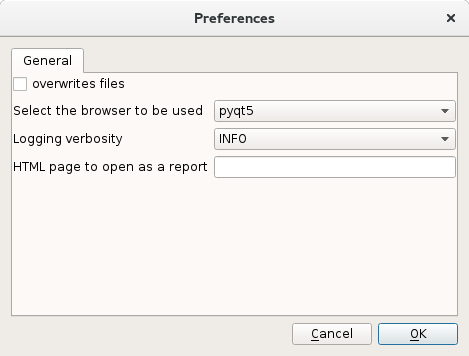
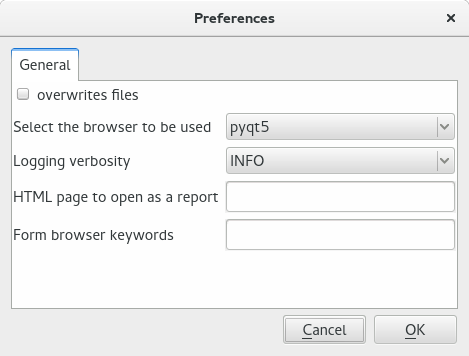
update doc

diff --git a/doc/sequanix.rst b/doc/sequanix.rst
@@ -107,6 +107,12 @@ You can then check the pipeline by clicking the **Show Pipeline** button or use
 complex dynamix pipelines where parts may be switched off, this may be
 convenient.
 
+.. figure:: _static/sequanix/sequanix_dag_qc.png
+    :width: 85%
+
+    A dialog showing the DAG (directed acyclic graph) with dependencies in the
+    analysis pipeline
+
 Finally, once saved, the **Run** button should be clickable. Click on
 it or use **Ctrl+R** shortcut. The output of Snakemake will be shown and
 the progress bar will move showing the stage of the analysis.
@@ -160,6 +166,8 @@ here is the Snakefile.
      will see later on to combine this Snakefile with a configuration file
      where the directory can be set.
 
+.. _minidata:
+
 Prerequisites: get some FastQ files
 ~~~~~~~~~~~~~~~~~~~~~~~~~~~~~~~~~~~~~~~~~~~~~~
 
@@ -179,9 +187,9 @@ You will also need the Snakefile (pipeline) itself:
 
 - :download:`minimalist <minimalist.rules>`
 
-.. warning:: if the data and pipeline are in a different directories, 
+.. warning:: if the data and pipeline are in a different directories,
    you need to change the highlighted line (line 5) to set
-   the **directory** name specifically. 
+   the **directory** name specifically.
 
 Once ready, start **Sequanix** in a shell::
 
@@ -222,30 +230,59 @@ Generic pipeline: a minimalist example with a configuration file
 
 In this section, we use a pipeline that is almost identical to the previous one.
 
-.. literalinclude:: minimalist.rules
+.. literalinclude:: minimalist2.rules
     :language: python
     :linenos:
-    :emphasize-lines: 5
+    :emphasize-lines: 4-5
 
-The only difference is that the **directory** parameter is now inside an
-external configuration file. Here are the links to get the Snakefile and the
-configuration file. 
+The only difference is on line 4 and 5: the previously hard-coded variable **directory**
+is now extracted from an external configuration file called *minimalist.yaml*.
 
+Here are the links to get the Snakefile and the configuration file.
 
 - :download:`minimalist file with configuration <minimalist2.rules>`
 - :download:`configuration <minimalist.yaml>`
 
+Similarly to the previous example you would need some FastQ files
+(see :ref:`minidata`). Once done, start **sequanix**. Here you would
+need to load the pipeline and set the working directory but also to
+load the config file. When you load the config file, you should see
+something equivalent to the following figure: the configuration file is shown
+in the **Config parameters** section:
+
 .. figure:: _static/sequanix/sequanix_minimalist_config.png
+    :width: 80%
 
 You can see here that the configuration file (a single parameter *data_directory*) is interpreted and a widget is available to select the directory where to find the data (for developers, please see :ref:`developers` section).
 
 The rest of the analysis works as above.
 
-Dialogs
-----------
+Dialogs and running local or on a cluster
+-------------------------------------------------
 
-Preference dialog
-~~~~~~~~~~~~~~~~~~~~~
+So far we have used **Sequanix** with the default parameters.
+
+
+
+
+The Sequanix browser and the preferences dialog
+~~~~~~~~~~~~~~~~~~~~~~~~~~~~~~~~~~~~~~~~~~~~~~~~~
+
+Once an analysis is finished, **Sequana** pipeline generally creates an HTML
+report. This is the reason why we added a **Open Report** button in the bottom.
+This opens a file browser where users can select an HTML file. The browser used
+by default is a home-made browser.
+
+The home-made browser is simple but very convenient if you run **Sequanix** on a
+unix system where there is no standard browser installed for you. However, this
+home-made browser is simple. There is a forward/backward capability, support for
+Javascript, ability to change the URL but that is pretty much all. 
+
+
+In order to open the preferences dialog, type **Ctrl+P** or go to
+the *Option* menu at the top and select *Preferences*. The Preferences dialog
+looks like the following figure:
+
 
 .. figure:: _static/sequanix/preferences_dialog.png
    :scale: 80%
@@ -253,12 +290,50 @@ Preference dialog
    Preferences dialog. This dialog is accessible via the menu or the short Ctrl+P.
    It contains general options to tune Sequanix's behaviour
 
+Brief description of the options:
+
+:overwrite files: if checked, when saving a project, the existing configuration
+    and pipelines are overwritten
+:select the browser to be used: By default the home-made browser (pyqt5) is used but one
+    can select firefox, safari, chrome instead. 
+:logging verbosity: there are 5 level of verbosity. By default, we use INFO. It
+    may be useful to set the option to DEBUG if there are errors and you wish to
+    provide a complete bug report to sequana developers.
+:HTML page to open as a report: If you set a filename here, then when pressing
+    **Open report**, instead of opening a file browser, sequanix open the file
+    provided.
+:Form browser keywords: In the config parameters, if you wish to associate a
+    parameter name with a breowser widget, add the names here (separated by comma)
 
 
-Snakemake dialog
-~~~~~~~~~~~~~~~~~~~~~
+
+From a local to cluster analysis 
+~~~~~~~~~~~~~~~~~~~~~~~~~~~~~~~~~~~~~~
+
+One strength of Snakemake (and Sequanix) is that pipelines can be run locally
+but also on clusters using various scheduler frameworks without changing the
+pipeline code.
+
+In Sequanix, we can switch between a local run or a cluster run by switching a
+button in the main window as shown in the figure below:
+
+.. figure:: _static/sequanix/sequanix_local_vs_cluster.png
+    :scale: 80%
+
+    If you are on a cluster, you should switch the **local** mode to **cluster** AND you 
+    have to provide the cluster commands in the Snakemake dialog (see above).
+
 
 The Snakemake dialog contains 3 sub tab: the local, cluster and general tabs.
+
+
+Running analysis locally
+^^^^^^^^^^^^^^^^^^^^^^^^^
+If you run the analaysis locally, you do not need to change much. The only
+option to tune is the number of cires to be used locally. This happens in the 
+**Local** tab. By default the cores parameter is set to the number of cores
+found on the computer. You may reduce this number if you wish.
+
 
 .. figure:: _static/sequanix/snakemake_dialog_local.png
     :scale: 80%
@@ -267,10 +342,54 @@ The Snakemake dialog contains 3 sub tab: the local, cluster and general tabs.
     to be used. By default it is the number of available cores on the machine
     used.
 
+Running analysis on a cluster
+^^^^^^^^^^^^^^^^^^^^^^^^^^^^^^
+
+If you run the analysis on a cluster, this is a bit more complicated.
+
+First, similarly to the local run, you may proivide the number of cores to be
+used. This happens in the **Cluster** tab. Here, you can set the paramters
+**jobs** to the required number of CPUS. If you know that at a given time, you
+may have N jobs running, set this paramter to N. For instance, of you have 48
+samples, and you perform 48 independent analysis, set *jobs* to 48.
+
+Second, you must set the *cluster* commands. We will not provide an exhaustive 
+documentation on this aspect, which is technical and pipeline and cluster
+dependent.
+
+We provide two examples. First, let us assume the case where :
+
+- you are on a cluster with a SLURM framework
+- your jobs require less than 4 Gb of memory
+
+Then, you must add this line in the **cluster** field
+
+::
+
+    sbatch --mem=4000
+
+Second, let us assume the case where:
+
+- you are on a cluster with a SGE framework
+- your jobs require 4 threads each 
+
+Then, you must add this line in the **cluster** field
+
+::
+
+    qsub --pe threaded 4
+
+
 .. figure:: _static/sequanix/snakemake_dialog.png
     :scale: 80%
 
     The tab **cluster** contains parameters related to the execution of the Snakemake pipeline can be set (e.g. specific job scheduler information or number of CPUs to be used).
+
+Other Snakemake options
+^^^^^^^^^^^^^^^^^^^^^^^^^^^^^
+
+Snakemake itself has lots of options. In the snakemake dialog, in the
+**General** tab, one can set them. 
 
 
 .. figure:: _static/sequanix/snakemake_general.png
@@ -279,113 +398,43 @@ The Snakemake dialog contains 3 sub tab: the local, cluster and general tabs.
     In the General tab, check boxes related to Snakemake are available. Any other options can be set in the editable line at the bottom.
 
 
+Here is a brief description:
 
-prerequisites
-------------------
+:quiet: Do not output any progress or rule information
+:forceall: Force the execution of the selected (or the first) rule and all rules it is dependent on regardless of already created output.
+:keep-going: Go on with independent jobs if a job fails.
+:nohooks: Do not invoke onstart, onsuccess or onerror hooks after execution.
+:restart-times:  Number of times to restart failing jobs (defaults to 0).
+:verbose: Print debugging output
+:summary: Print a summary of all files created by the workflow. The has the following columns: filename, modification time, rule version, status, plan. Thereby rule version contains the versionthe file was created with (see the version keyword of rules), and status denotes whether the file is missing, its input files are newer or if version or implementation of the rule changed since file creation. Finally the last column denotes whether the file will be updated or created during the next workflow execution.
+:any other options:
 
-Sequanix allows users to select Sequana pipeline, set configuration files
-interactively and run the pipeline using Snakemake behind the scene.
-
-The motivation is to expose complex pipelines via a simple graphical interface.
-
-So, before using Sequanix you must know what pipeline you want to use.
-
-Sequanix
------------
-
-installation: cf installation de sequana
-
-taper sequanix
-
-!! ou demarrer sequanix ? wherever but we recommend to start it where the data
-is.
-
-:Cluster usage: -X
-
-
-Running analysis
--------------------
-
-Snapshot sequanix avec les sections mises en valeurs. Entour en rouge les
-sections avec labels I, II, III, IV. C'est la figure 1 de l'article.
-
-pipelines are defined by
-- a Snakemake file, which describes the pipeline itself
-- a config file, where users can fine-tune the pipeline (this may be optional)
-- a working directory where we save the pipeline / config and run the analysis
-(in general)
-- information about input data set (files, directory)
-
-The first step is to define a project. This is done in window I
-
-Step 1
-~~~~~~~~
-I. Select a pipeline
-I.A Sequana pipeline
-...
-
-
-Step 2: configuration via the form
-~~~~~~~~~~~~~~~~~~~~~~~~~~~~~~~~~~~~~~~~~~
-
-Snapshot
-
-- ability to switch on/off some rules/tools/steps
-- dropdown widget
-- file browser to be filled
-
-we cannot details the config for the pipelines so we need to refer to the
-pipeline section again.
-
-Once happy we the config, SAVE the project. This copies the config and pipeline
-files into the WORKING DIRECTORY. If exists already what's going on ?
-
-Step 3: run
-~~~~~~~~~~~~~~~~
-
-- Run. describe progress bar
-- Stop
-- Unlock
-- Save --> enable the RUN
-
-
-Section II
-~~~~~~~~~~~~~~~
-- local/cluster
-- if cluster --> preferences
-
-With Slurm::
-
-    srun --x11 sequanix
+.. _sequanix_faqs:
 
 FAQS
 ---------
 
-- What to do if the RUN fails
--
+How to run **Sequanix** on a SLURM cluster.
+~~~~~~~~~~~~~~~~~~~~~~~~~~~~~~~~~~~~~~~~~~~~~
+You have to connect with ssh and the -X option::
 
-Browser
-----------
-- motivation and limitations
+    ssh -X your.cluster.address
 
-others
------------
-- import config local
-- start sequanix with options::
+Once connect, on slurm system::
 
-   sequanix -i . -p quality_control -w analysis
+    srun  --x11 sequanix
 
-- Generic pipeline can re-use widgets using _file and other semantic.
+What to do if the RUN fails
+~~~~~~~~~~~~~~~~~~~~~~~~~~~~~~~~~~~~
 
+An analysis may fail for various reasons. The errors have several origins:
 
-Generic example
-------------------
+- configuration file not filled properly
+- bug in the pipeline
+- bug in Sequanix
+- cluster issue: a job is killed because not enough memory was allocated
 
-For any other Snakemake workflows, we need:
-
-#. To select a Snakefile (extension .rules)
-#. To select a configuration file (optional)
-#. A working directory where analysis will be run and results stored
+By experience, the first type of errors is the most common.
 
 
 

diff --git a/doc/faqs.rst b/doc/faqs.rst
@@ -135,7 +135,11 @@ the PREFIX is used to create directories or reports; it must be present.
 
 
 
+Sequanix related
+----------------------
 
+For question related to Sequanix, we have a dedicated section in
+:ref:`sequanix_faqs`.
 
 
 
